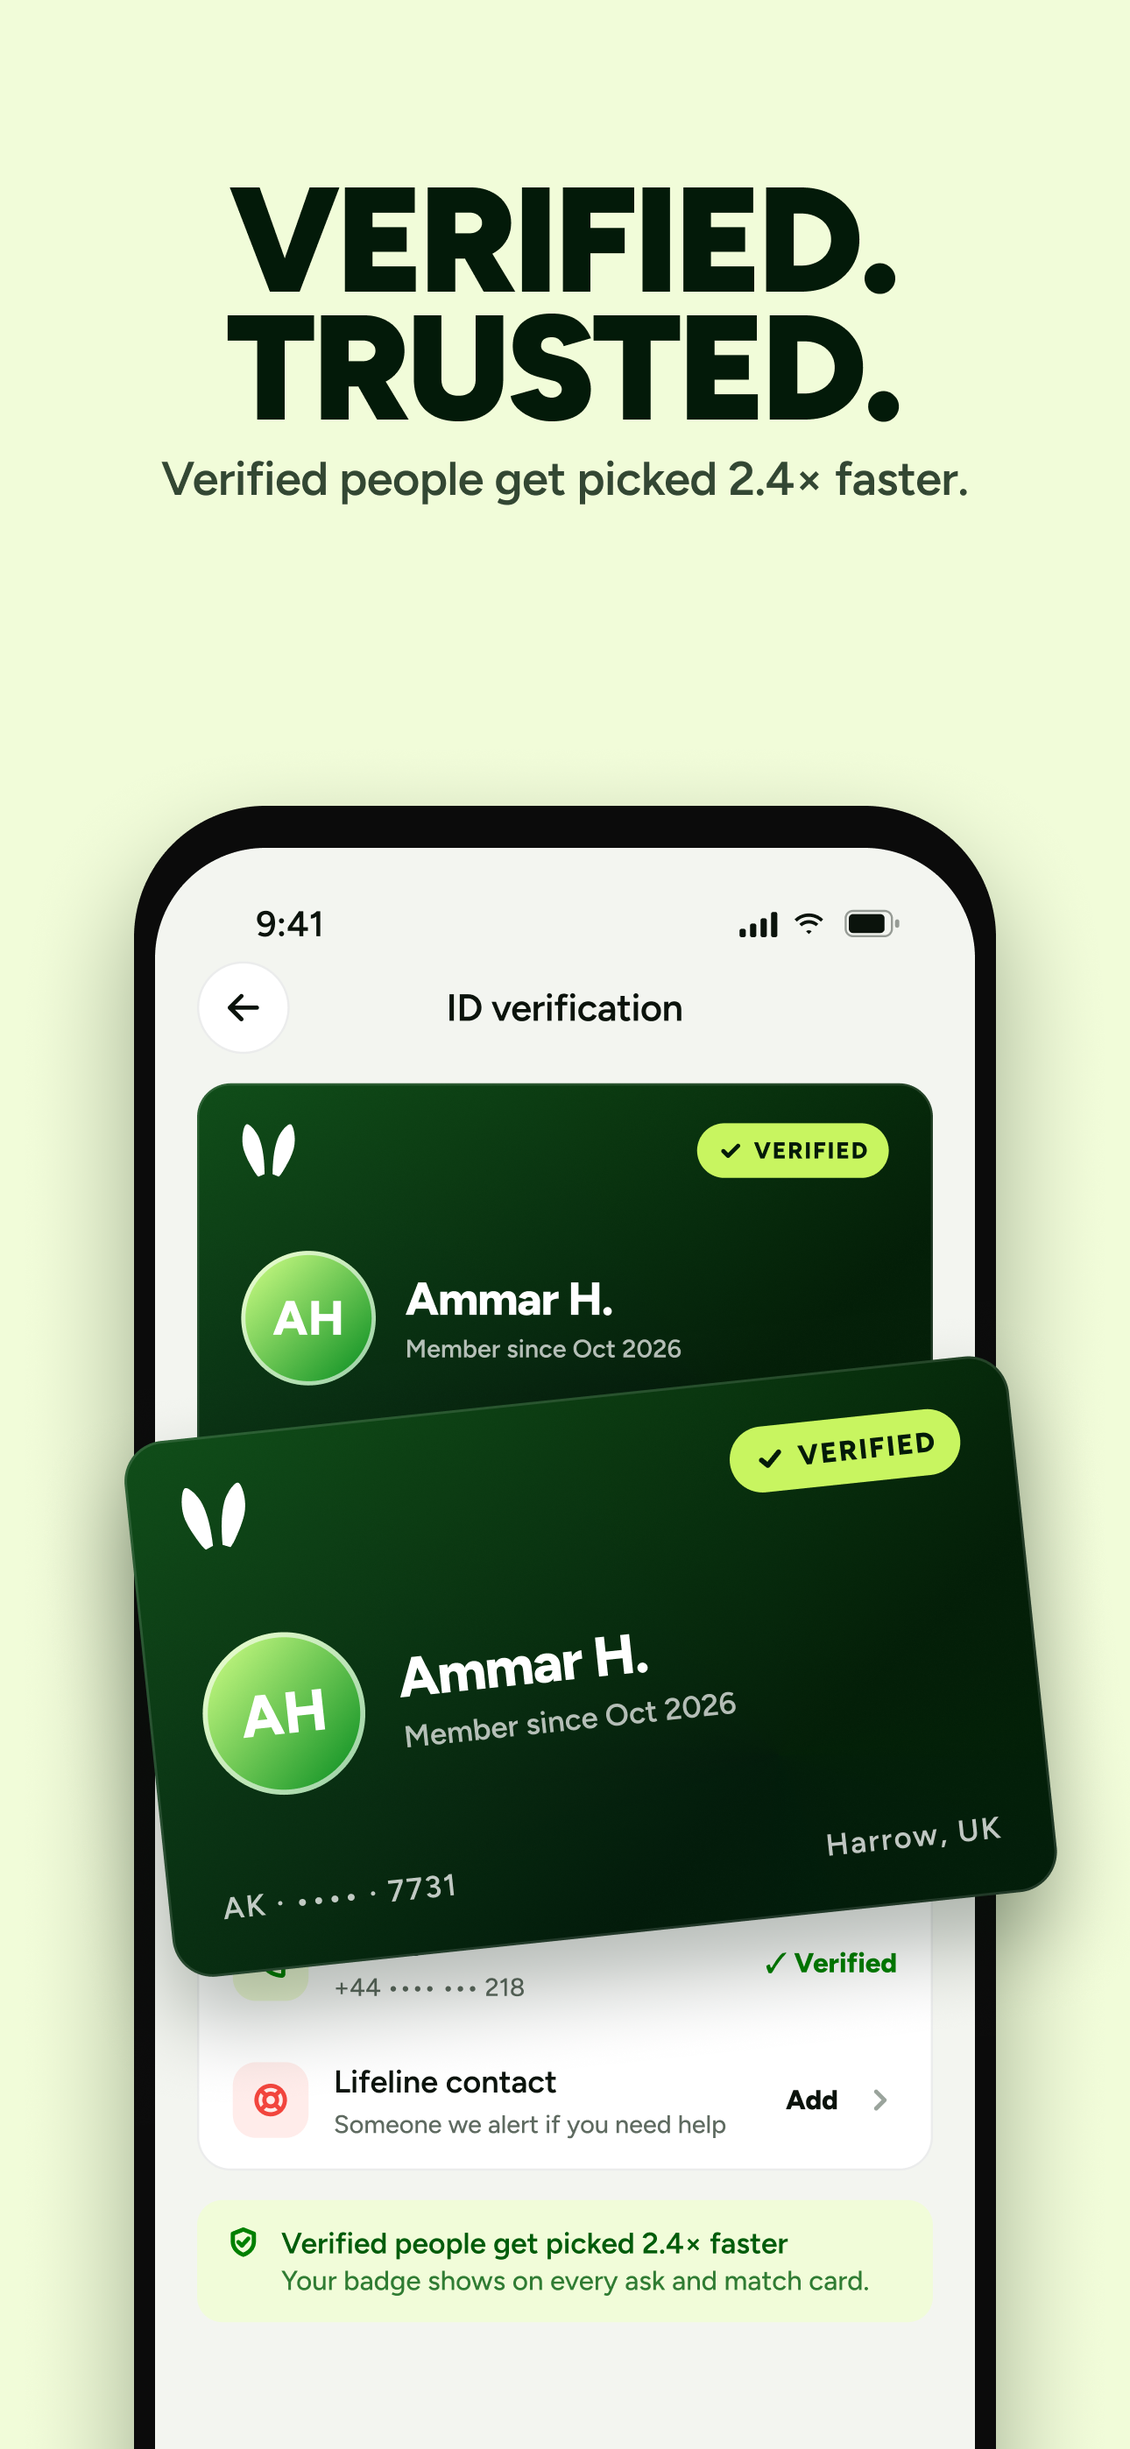
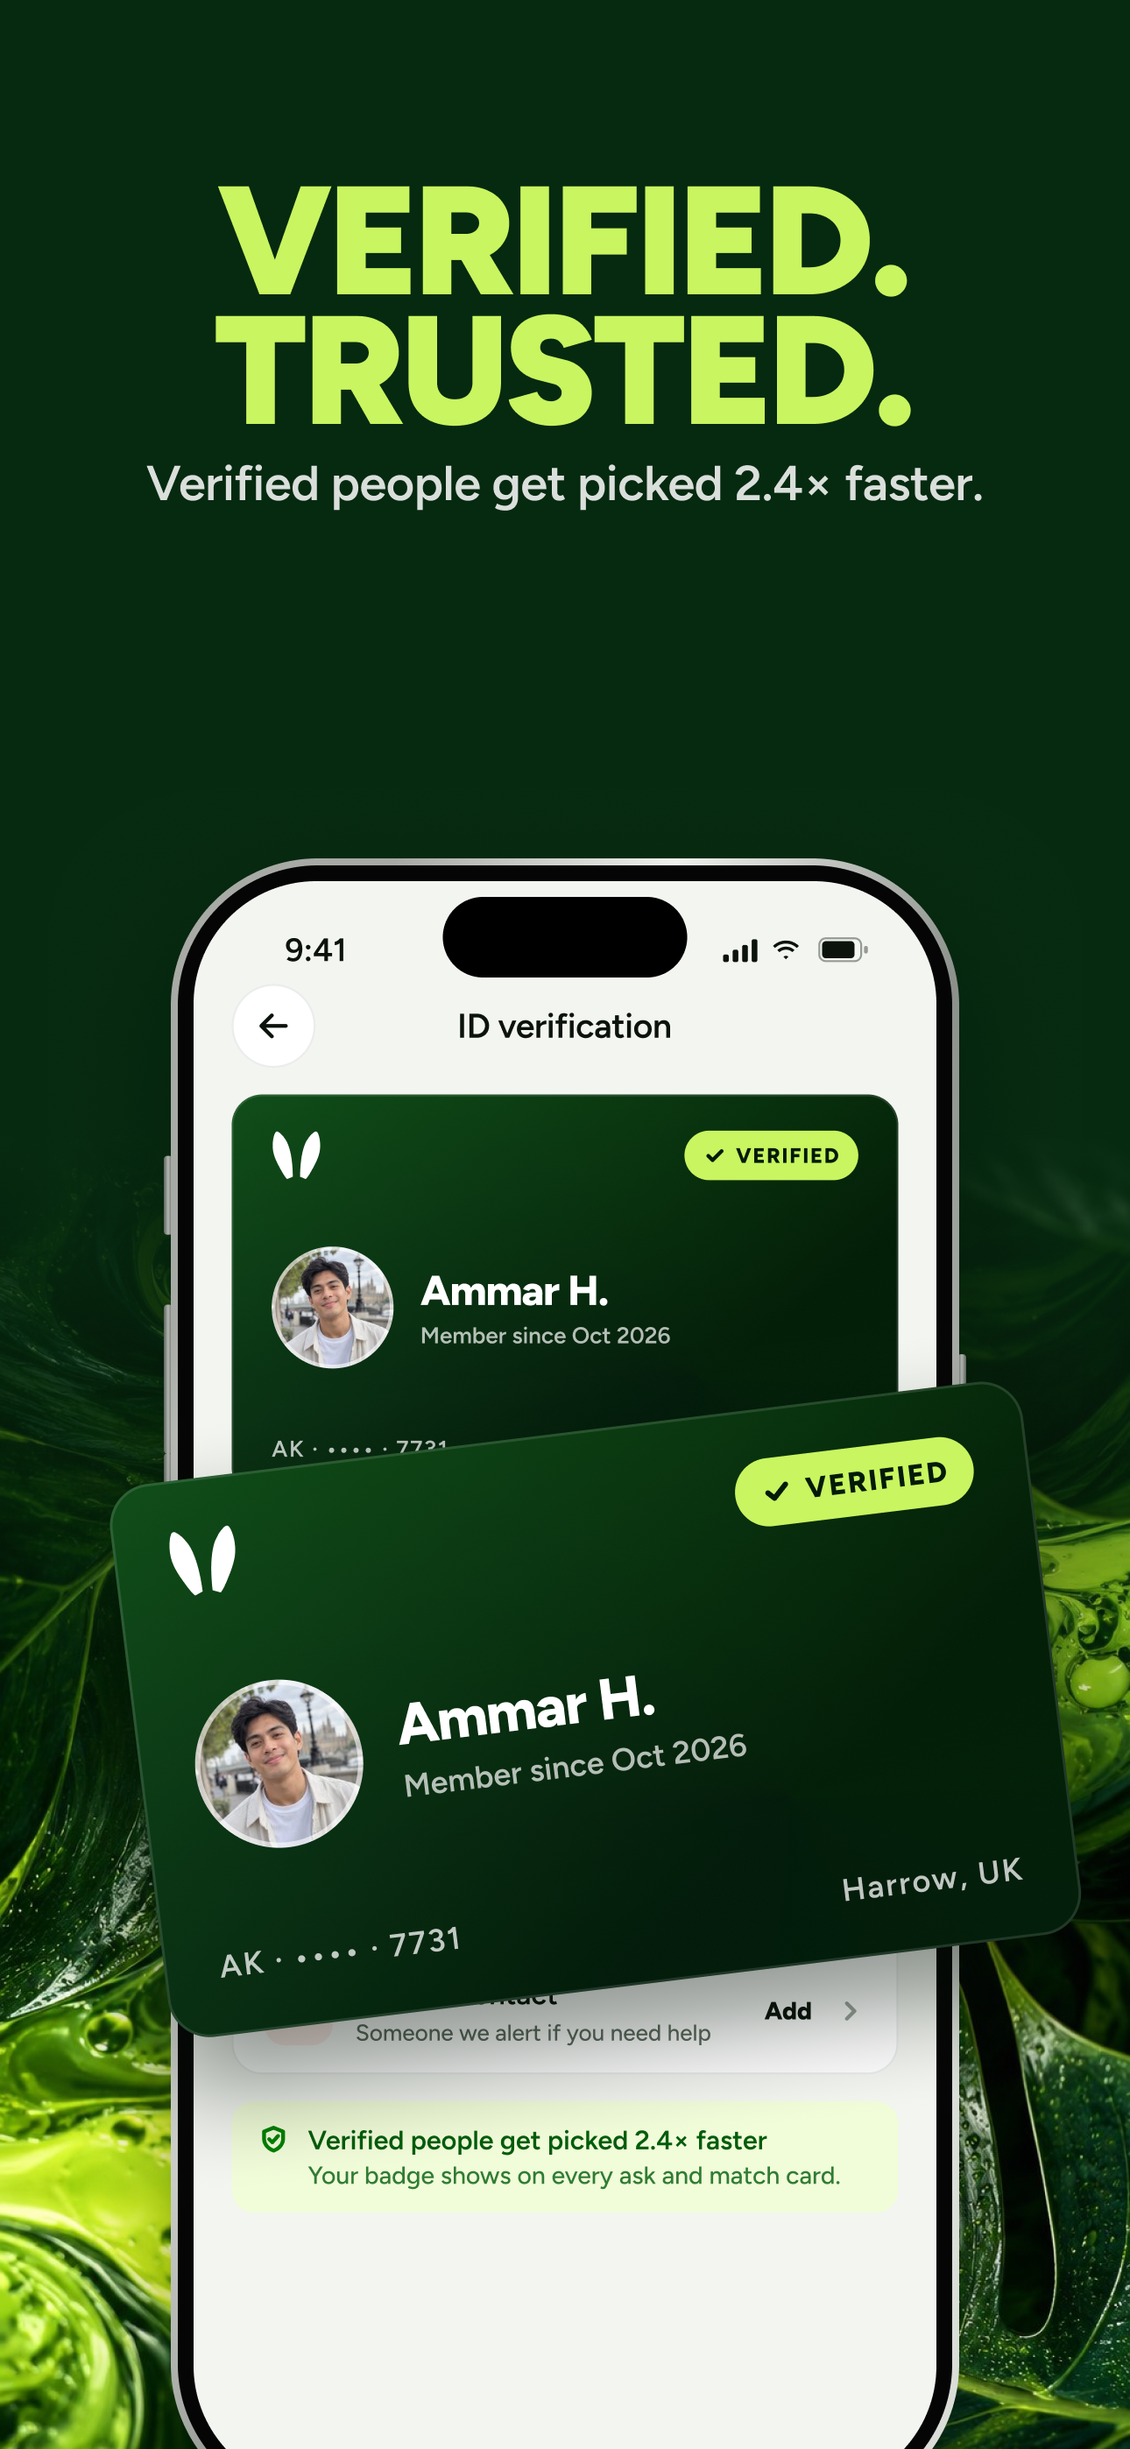
Real dummy people, iOS dimming, App Store v3 with Codex imagery
Codex CLI generated eight fictional portrait photos (all avatars and map
markers), a 3D Hop render, a botanical texture, a pastel grid and two
lifestyle photos. Tooltips, inbound cards, decision sheets and pop-ups
now dim the screen behind them. The App Store set is rebuilt around the
Wise / Arc / journaling references with a real iPhone frame.

diff --git a/prototype/src/screens/Chat.tsx b/prototype/src/screens/Chat.tsx
@@ -2,7 +2,7 @@ import { useEffect, useRef, useState } from 'react'
 import { motion, AnimatePresence } from 'motion/react'
 import { ArrowLeft, Phone, MoreHorizontal, Plus, Send, Check, Navigation, Lock, LifeBuoy, ShieldCheck, Ban, MinusCircle, Share, X, Clock, MapPin, Star, Hourglass, Image as ImageIcon, FileText } from 'lucide-react'
 import { useApp } from '../store'
-import { StatusBar, HomeBar, Hop, Btn, Avatar, Tile, Stepper, CountdownRing, Sheet, Modal, Confetti, HoldButton, Toast, MapCanvas, Me, PEOPLE, EASE_OUT, spring } from '../ui'
+import { StatusBar, HomeBar, Hop, Btn, Avatar, Tile, Stepper, CountdownRing, Sheet, Modal, Confetti, HoldButton, Toast, MapCanvas, Me, PEOPLE, photo, EASE_OUT, spring } from '../ui'
 
 type Msg = { id: number; from: 'me' | 'them' | 'sys'; text: string }
 
@@ -102,7 +102,7 @@ export function Chat(p: { role?: 'asker' | 'helper'; who?: string; fee?: number;
           <motion.div key="map" initial={{ height: 104, opacity: 1 }} animate={{ height: 104, opacity: 1 }} exit={{ height: 0, opacity: 0 }} transition={{ duration: 0.3, ease: EASE_OUT }} onClick={() => setMapOpen(true)} whileTap={{ scale: 0.98 }} style={{ position: 'relative', borderRadius: 16, overflow: 'hidden', boxShadow: 'inset 0 0 0 1px var(--line)', cursor: 'pointer' }}>
             <div style={{ position: 'absolute', inset: 0, backgroundImage: 'url(/map/harrow.png)', backgroundSize: '390px 844px', backgroundPosition: '-10px -330px' }} />
             <div className="medot" style={{ left: 252, top: 40 }} />
-            <motion.div className="person" style={{ background: `linear-gradient(135deg, ${PEOPLE[helper ? 'Me' : who].c[0]}, ${PEOPLE[helper ? 'Me' : who].c[1]})` }} initial={{ left: 100, top: 66 }} animate={{ left: 200, top: 52 }} transition={{ duration: 24, ease: 'linear' }}>{PEOPLE[helper ? 'Me' : who].ini[0]}</motion.div>
+            <motion.div className="person" style={{ background: `center/cover url(${photo(helper ? 'Me' : who)})` }} initial={{ left: 100, top: 66 }} animate={{ left: 200, top: 52 }} transition={{ duration: 24, ease: 'linear' }} />
             <span className="badge invert" style={{ position: 'absolute', left: 10, top: 10 }}>450 m · 6 min</span>
             <button className="btn secondary sm" style={{ position: 'absolute', right: 10, bottom: 10, background: '#fff' }} onClick={e => { e.stopPropagation(); setMapOpen(true) }}><Navigation size={14} />Directions</button>
           </motion.div>
@@ -131,6 +131,7 @@ export function Chat(p: { role?: 'asker' | 'helper'; who?: string; fee?: number;
       </div>
       <HomeBar />
 
+      <AnimatePresence>{inbound && <motion.div key="mj-dim" className="scrim" style={{ zIndex: 59 }} initial={{ opacity: 0 }} animate={{ opacity: 1 }} exit={{ opacity: 0 }} />}</AnimatePresence>
       <AnimatePresence>{inbound && <MidJobInbound key="mj" onClose={() => setInbound(false)} onOffer={() => { setInbound(false); setToast('Offer sent · queued after Bella') }} />}</AnimatePresence>
       <Toast text={toast} show={!!toast} top />
 
@@ -140,7 +141,7 @@ export function Chat(p: { role?: 'asker' | 'helper'; who?: string; fee?: number;
           <motion.div initial={{ scale: 1, rotateX: 0 }} animate={{ scale: 1.35, rotateX: 32 }} exit={{ scale: 1, rotateX: 0 }} transition={{ duration: 0.7, ease: [0.32, 0.72, 0, 1] }} style={{ position: 'absolute', inset: '-10% -10% 0', transformPerspective: 900, transformOrigin: '50% 60%' }}>
             <MapCanvas area="harrow">
               <Me x={250} y={420} />
-              <motion.div className="person" style={{ background: `linear-gradient(135deg, ${PEOPLE[helper ? 'Me' : who].c[0]}, ${PEOPLE[helper ? 'Me' : who].c[1]})`, width: 40, height: 40, margin: '-20px 0 0 -20px', fontSize: 15 }} initial={{ left: 110, top: 520 }} animate={{ left: 215, top: 455 }} transition={{ duration: 20, ease: 'linear' }}>{PEOPLE[helper ? 'Me' : who].ini[0]}</motion.div>
+              <motion.div className="person" style={{ background: `center/cover url(${photo(helper ? 'Me' : who)})`, width: 40, height: 40, margin: '-20px 0 0 -20px' }} initial={{ left: 110, top: 520 }} animate={{ left: 215, top: 455 }} transition={{ duration: 20, ease: 'linear' }} />
             </MapCanvas>
           </motion.div>
           <motion.div initial={{ y: -80 }} animate={{ y: 0 }} exit={{ y: -80 }} transition={{ type: 'spring', duration: 0.5, bounce: 0.2, delay: 0.15 }} className="row"

diff --git a/prototype/src/screens/Asking.tsx b/prototype/src/screens/Asking.tsx
@@ -38,15 +38,16 @@ export function PostAsk(p: { tip?: boolean }) {
           </div>
         </div>
         <div className="col" style={{ gap: 6 }}><span className="t-cap muted">Needed within</span><div className="row" style={{ gap: 8 }}>{['1h', '3h', '6h', '12h', '24h'].map(d => <button key={d} className={'chip green' + (dl === d ? ' on' : '')} onClick={() => setDl(d)}>{d}</button>)}</div></div>
-        <div style={{ position: 'relative' }}>
-          <div className="row">
+        <AnimatePresence>{tip && <motion.div key="tip-dim" initial={{ opacity: 0 }} animate={{ opacity: 1 }} exit={{ opacity: 0 }} transition={{ duration: 0.2 }} onClick={() => setTip(false)} style={{ position: 'fixed', inset: 0, background: 'rgba(0,0,0,0.4)', zIndex: 4 }} />}</AnimatePresence>
+        <div style={{ position: 'relative', zIndex: tip ? 5 : 'auto' }}>
+          <div className="row" style={{ background: tip ? '#fff' : 'transparent', borderRadius: 14, margin: tip ? '-8px -10px' : 0, padding: tip ? '8px 10px' : 0, transition: 'background-color 200ms' }}>
             <button className="row" onClick={() => setFf(!ff)} style={{ textAlign: 'left', whiteSpace: 'nowrap' }}><Users size={20} /><span className="t-callout">Finder’s fee</span></button>
             <motion.button whileTap={{ scale: 0.88 }} onClick={() => setTip(t => !t)} aria-label="What is a finder’s fee?" style={{ width: 26, height: 26, borderRadius: 13, boxShadow: `inset 0 0 0 1.5px ${tip ? 'var(--brand)' : 'var(--line-2)'}`, display: 'grid', placeItems: 'center', fontWeight: 800, fontSize: 13, color: tip ? 'var(--brand)' : 'var(--ink-3)' }}>?</motion.button>
             <span className="grow" /><span className="badge lime">£1.50</span><button onClick={() => setFf(!ff)} className={'switch' + (ff ? ' on' : '')} aria-label="Finder’s fee" />
           </div>
           <AnimatePresence>{tip && (
             <motion.div initial={{ opacity: 0, y: -6, scale: 0.96 }} animate={{ opacity: 1, y: 0, scale: 1 }} exit={{ opacity: 0, y: -4, scale: 0.98 }} transition={{ duration: 0.18, ease: EASE_OUT }} onClick={() => setTip(false)}
-              style={{ position: 'absolute', left: 0, right: 40, top: 36, zIndex: 5, padding: '12px 14px', borderRadius: 14, background: 'var(--ink)', color: '#fff', fontWeight: 500, fontSize: 14, lineHeight: 1.35, transformOrigin: '30% 0' }}>
+              style={{ position: 'absolute', left: 0, right: 40, top: 44, zIndex: 6, padding: '12px 14px', borderRadius: 14, background: 'var(--ink)', color: '#fff', fontWeight: 500, fontSize: 14, lineHeight: 1.35, transformOrigin: '30% 0' }}>
               <span style={{ position: 'absolute', top: -5, left: 132, width: 10, height: 10, background: 'var(--ink)', transform: 'rotate(45deg)' }} />
               Paid to whoever finds your helper — only if the ask gets done.
             </motion.div>
@@ -116,7 +117,7 @@ export function Finding(p: { boosted?: boolean; total?: number }) {
         <Btn kind="ghost" onClick={() => go('home', undefined, 'down')}>Cancel ask</Btn>
       </motion.div>
       <HomeBar />
-      <Sheet open={boost} z={50} scrim={false}>
+      <Sheet open={boost} z={50}>
         <div className="row" style={{ gap: 12 }}><Hop state="sad" size={76} /><span className="col grow" style={{ gap: 4 }}><span className="t-title2">No one free yet</span><span className="t-cap muted" style={{ fontSize: 14, fontWeight: 500 }}>Reach further or add a little more.</span></span></div>
         <div className="col" style={{ gap: 10, marginTop: 18 }}>
           <div className="row" style={{ justifyContent: 'space-between' }}><span className="t-callout">Radius</span><span className="t-callout green" style={{ fontWeight: 800 }}>{radius} km</span></div>

diff --git a/prototype/src/screens/Explore.tsx b/prototype/src/screens/Explore.tsx
@@ -108,9 +108,10 @@ export function Home(p: { inbound?: boolean; sent?: boolean; accepted?: boolean;
       <TabBar active="explore" />
       <HomeBar />
       <AnimatePresence>{phase === 'inbound' && <>
-        <motion.div key="dim" className="scrim" style={{ zIndex: 44, background: 'rgba(6,26,9,0.18)' }} initial={{ opacity: 0 }} animate={{ opacity: 1 }} exit={{ opacity: 0 }} />
+        <motion.div key="dim" className="scrim" style={{ zIndex: 44 }} initial={{ opacity: 0 }} animate={{ opacity: 1 }} exit={{ opacity: 0 }} />
         <InboundCard key="card" onDecline={() => setPhase('idle')} onOffer={() => setPhase('sent')} />
       </>}</AnimatePresence>
+      <AnimatePresence>{bts && <motion.div key="bts-dim" className="scrim" style={{ zIndex: 59, background: 'rgba(0,0,0,0.25)' }} initial={{ opacity: 0 }} animate={{ opacity: 1 }} exit={{ opacity: 0 }} onClick={() => setBts(false)} />}</AnimatePresence>
       <AnimatePresence>{bts && (
         <motion.button key="bts" onClick={() => go('preview')} initial={{ y: -90, opacity: 0, scale: 0.95 }} animate={{ y: 0, opacity: 1, scale: 1 }} exit={{ y: -60, opacity: 0 }} transition={{ type: 'spring', duration: 0.55, bounce: 0.35 }}
           className="row" style={{ position: 'absolute', top: 'calc(var(--sat) + 4px)', left: 12, right: 12, zIndex: 60, padding: 10, paddingRight: 14, borderRadius: 20, background: 'var(--ink)', color: '#fff', textAlign: 'left', boxShadow: 'var(--e-3)' }}>
@@ -125,7 +126,7 @@ export function Home(p: { inbound?: boolean; sent?: boolean; accepted?: boolean;
         <p className="row t-cap muted" style={{ gap: 6, marginBottom: 14 }}><Zap size={13} />Boosted asks reach you from up to 5 km.</p>
         <Btn onClick={() => setRadiusSheet(false)}>Done</Btn>
       </Sheet>
-      <Sheet open={phase === 'sent'} scrim={false} z={46}>
+      <Sheet open={phase === 'sent'} z={46}>
         <div className="row" style={{ gap: 12 }}><Hop state="happy" size={72} bob /><span className="col grow" style={{ gap: 4 }}><span className="t-title2">Offer sent</span><span className="t-cap muted" style={{ fontSize: 14, fontWeight: 500 }}>Ellie usually picks within 5 min.</span></span></div>
         <div className="row" style={{ margin: '14px 0', gap: 10, height: 22 }}>
           <span className="indeterminate" style={{ width: 64, flex: 'none' }}><i /></span>

diff --git a/prototype/src/ui.tsx b/prototype/src/ui.tsx
@@ -48,11 +48,13 @@ export function Hop({ state = 'idle', size = 120, bob = false, pop = true, sway 
   )
 }
 
+// Dummy people: photoreal portraits generated with Codex CLI (public/people/*.png)
+export const photo = (who: string) => `/people/${who.toLowerCase()}.jpg`
+
 export function Avatar({ who, size = 40, tick = true }: { who: string; size?: number; tick?: boolean }) {
   const p = PEOPLE[who]
   return (
-    <div className="avatar" style={{ width: size, height: size, fontSize: size * 0.36, background: `linear-gradient(135deg, ${p.c[0]}, ${p.c[1]})` }}>
-      {p.ini}
+    <div className="avatar" style={{ width: size, height: size, fontSize: size * 0.36, background: `center/cover no-repeat url(${photo(who)}), linear-gradient(135deg, ${p.c[0]}, ${p.c[1]})` }} aria-label={p.name}>
       {tick && <span className="tick"><Check size={size * 0.22} color="#fff" strokeWidth={4} /></span>}
     </div>
   )
@@ -114,7 +116,7 @@ export const Me = ({ x, y }: { x: number; y: number }) => <div className="medot"
 export const Ring = ({ x, y, d, label }: { x: number; y: number; d: number; label: string }) => <div className="ring" style={{ left: x, top: y, width: d, height: d }}><span className="lbl">{label}</span></div>
 export function Person({ who, x, y, delay = 0 }: { who: string; x: number; y: number; delay?: number }) {
   const p = PEOPLE[who]
-  return <motion.div className="person" style={{ left: x, top: y, background: `linear-gradient(135deg, ${p.c[0]}, ${p.c[1]})` }} initial={{ scale: 0.6, opacity: 0 }} animate={{ scale: 1, opacity: 1 }} transition={{ ...spring, delay }}>{p.ini[0]}</motion.div>
+  return <motion.div className="person" style={{ left: x, top: y, background: `center/cover no-repeat url(${photo(who)}), linear-gradient(135deg, ${p.c[0]}, ${p.c[1]})` }} initial={{ scale: 0.6, opacity: 0 }} animate={{ scale: 1, opacity: 1 }} transition={{ ...spring, delay }} aria-label={p.name} />
 }
 export const MapBg = ({ area = 'harrow' }: { area?: string }) => <div className="map" style={{ backgroundImage: `url(/map/${area}.png)` }} />
 

diff --git a/prototype/src/styles.css b/prototype/src/styles.css
@@ -149,7 +149,7 @@ img { display: block; user-select: none; -webkit-user-drag: none; }
 .avatar .tick { position: absolute; right: -2px; bottom: -2px; width: 40%; height: 40%; border-radius: 50%; background: var(--brand); border: 2px solid #fff; display: grid; place-items: center; }
 
 /* ---------- sheets & overlays ---------- */
-.scrim { position: absolute; inset: 0; background: rgba(6, 26, 9, 0.36); z-index: 40; }
+.scrim { position: absolute; inset: 0; background: rgba(0, 0, 0, 0.4); z-index: 40; } /* iOS dimming: focus goes to whatever sits above it */
 .sheet { position: absolute; left: 0; right: 0; bottom: 0; background: var(--surface); border-radius: 24px 24px 0 0; z-index: 50; padding: 8px 20px calc(var(--sab) + 8px); max-height: calc(100% - var(--sat) - 8px); overflow-y: auto; box-shadow: 0 -8px 24px rgba(6, 26, 9, 0.06); }
 .handle { width: 36px; height: 5px; border-radius: 3px; background: var(--ink-4); margin: 0 auto 14px; opacity: 0.7; }
 .modal { position: absolute; left: 20px; right: 20px; top: 50%; z-index: 55; background: var(--surface); border-radius: 28px; padding: 28px 24px 20px; box-shadow: var(--e-3); display: flex; flex-direction: column; align-items: center; text-align: center; gap: 14px; max-height: calc(100% - var(--sat) - var(--sab) - 24px); overflow-y: auto; }

diff --git a/HANDOFF.md b/HANDOFF.md
@@ -273,20 +273,28 @@ The coded prototype now covers all 40 screen IDs (phone, code, skills, lock-scre
 - Motion notes start with "60fps ·" and describe the shipped interaction.
 - The Figma clickable prototype is regenerated (47 screens, 114 links). The coded prototype index has 46 entries: the same IDs, with 01.3 living inside 01.2 (swipe) and 01.9 inside 01.8 (the native dialog), plus My asks.
 
-### App Store set v2
+### App Store set v3
 
-Eight 1290 × 2796 frames in Figma (section "📱 App Store screenshots … v2") and exported to `appstore/`:
-- **Wise style:** big uppercase lime-on-green headlines, oversized UI cards.
-- **Arc style:** pastel gradient with a coloured headline.
-- **Journaling-app style:** a Hop hero on a patterned field, hand-drawn swashes, a tilted phone.
+Eight 1290 × 2796 frames in Figma (section "📱 App Store screenshots … v3"), exported to `appstore/`.
+- **Imagery:** generated with Codex CLI (image generation), sources in `assets/appstore-gen/`: a 3D Hop render made from the real Hop artwork, a botanical lime texture, a pastel grid, and two London lifestyle photos.
+- **Device:** an iPhone 16 Pro–style frame (titanium edge, bezel, Dynamic Island, side buttons) replaces the plain rectangle.
+- **References applied:** Wise (uppercase lime-on-green headlines, a floating UI card over texture, a photo under the phone), Arc (pastel grid, gradient headline), journaling app (mascot hero on a mascot pattern, eyebrow line + hand-drawn swash, tilted phone).
 
-| # | Headline | Screen |
-|---|---|---|
-| 01 | Get it done. Get paid. | Hop hero |
-| 02 | The fast way to get it done | 03.2 |
-| 03 | Pick who helps | 03.3 |
-| 04 | Pay safely. Release when done. | 03.8 |
-| 05 | Earn on your way | 04.1 + inbound card |
-| 06 | Asks around you, live. | 02.1 |
-| 07 | Verified. Trusted. | 06.2 |
-| 08 | Get paid the moment it's done | 04.2 |
+| # | Headline | Style | Screen |
+|---|---|---|---|
+| 01 | Get it done. Get paid. | Journaling hero, 3D Hop | — |
+| 02 | The fast way to get it done | Wise, card over texture | 03.2 card |
+| 03 | Pick who helps. | Wise, lime field | 03.3 |
+| 04 | Earn on your way | Wise, lifestyle photo | 02.4 |
+| 05 | Pay safely. Release when done. | Arc, pastel grid | 03.8 |
+| 06 | See what people need, right now. | Journaling, swash + tilt | 02.1 |
+| 07 | Verified. Trusted. | Wise, pass over texture | 06.2 |
+| 08 | Get paid the moment it's done | Wise, photo + payout card | — |
+
+### v4.4: real people, iOS focus
+
+- **Dummy people** are photoreal portraits generated with Codex CLI. They are fictional (`assets/people/` 1024 px masters, `prototype/public/people/` web copies) and replace every initials avatar in the prototype and Figma: offer cards, chat headers, map markers, lists.
+- **iOS dimming:** anything that asks for attention dims what's behind it.
+  - Black 40% (the `scrim` token): tooltips (spotlit row), incoming-ask cards (02.4, 04.1b), decision sheets (03.6 boost, 02.6 offer sent) and every modal or sheet.
+  - Black 25%: the BTS pop-up.
+  - No dim: toasts, which stay non-blocking per the HIG.
